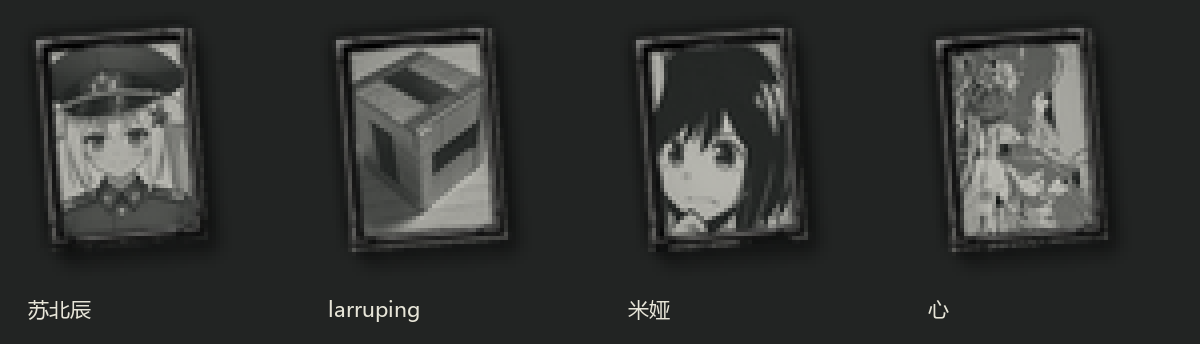
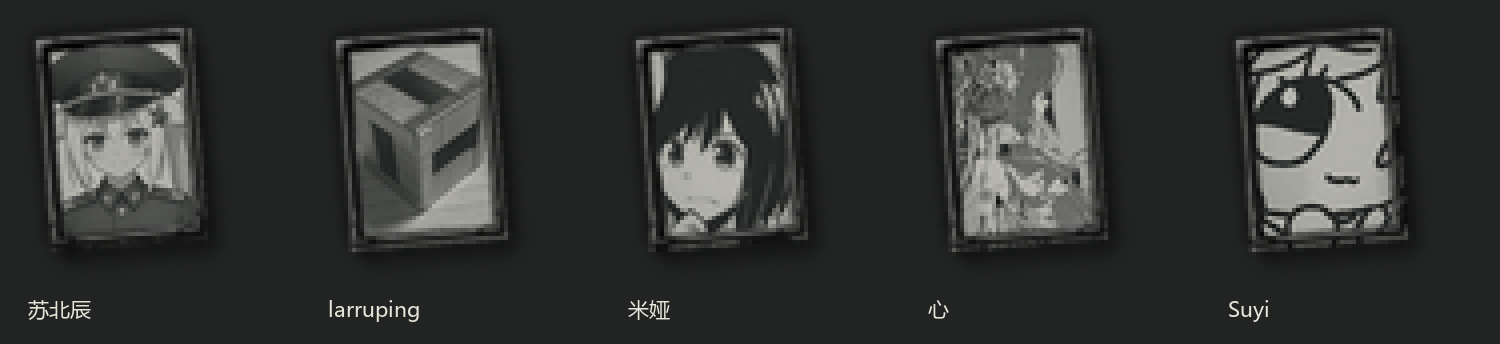
Add Suyi adviser with daily randomized political power trait

diff --git a/tools/generate_easter_egg_advisors.py b/tools/generate_easter_egg_advisors.py
@@ -9,6 +9,10 @@ from generation_io import cli
 
 ROOT=Path(__file__).resolve().parents[1]
 ADVISORS={
+ 'suyi':dict(name='Suyi',trait='概率学博士',modifiers={},desc=(
+     '背景：Suyi的mod制作历程可谓成效显著，仅用数周时间，便凭借独具风格的文案撰写和策划运营，完成了从普通群友到核心组员的跨越式转变——这一转变并非偶然，既源于其在文案撰写和策划运营方面的持续积累，也与其温和稳重的做事风格密切相关。'
+     '\n\n尽管Suyi在群内仍习惯以“季伯常”自居，但其工作热情仍感染着每一位组员。'
+     '\n\n“有理想的人，生活总是火热的。”')),
  'xin':dict(name='心',trait='自刎归天',modifiers={'org_loss_at_low_org_factor':-1},desc=(
      '背景：某种意义上来讲，牢心可能是制作组成分最复杂的人，在作为群友的早年生活中，他有时跳出来发表一些长篇大论，有时又会在长时间内陷入沉寂；不仅如此，牢心的还乐于在mod群里搬花样繁多的史，从科幻FPS对局到神笔历史小故事应有尽有，他自己美其名曰分享美食。尽管他的史经常0个人在意，但他依然乐此不疲。'
      '\n\n作为制作组新加入的成员之一，曾经的他对mod制作望而却步。直到某一天他下载了那个震撼的多么多么的多么mod——承蒙多么多么mod组的伟力，他被让KR红俄再次伟大的理想所感召，完成了从见证别人做mod到自己参与做mod的转变。为了达成这个伟大理想，无论付出何种代价都在所不惜，哪怕让群聊燃烧，让飞书陨落........')),
@@ -50,11 +54,15 @@ def render_outputs():
                 'visible = { has_country_flag = '+flag+' }',
                 'available = { hidden_trigger = { has_country_flag = '+flag+' } not_already_hired_except_as = political_advisor }',
                 'traits = { '+trait+' }','cost = 0','can_be_fired = yes','ai_will_do = { base = 0 }']).strip()]))
+        if key=='suyi':
+            characters[-1]=characters[-1].replace('cost = 0',
+                'on_add = { hidden_effect = { RUS_egg_suyi_appoint = yes } }\n\ton_remove = { hidden_effect = { clr_country_flag = RUS_egg_suyi_active remove_dynamic_modifier = { modifier = RUS_egg_suyi_daily_pp } force_update_dynamic_modifier = yes } }\n\tcost = 0')
         traits.append(block(trait,['random = no','sprite = 1',
             *[str(k)+' = '+str(v) for k,v in data['modifiers'].items()],
             *(['custom_modifier_tooltip = RUS_egg_guaranteed_minesweeper_tt'] if key=='larruping' else []),
             *(['custom_modifier_tooltip = RUS_egg_guaranteed_doudizhu_tt'] if key=='larruping' else []),
             *(['custom_modifier_tooltip = RUS_egg_mia_trait_tt'] if key=='mia' else []),
+            *(['custom_modifier_tooltip = RUS_egg_suyi_trait_tt'] if key=='suyi' else []),
             'ai_will_do = { factor = 0 }']))
         effects.append(block(ident+'_unlock',[
             'if = { limit = { original_tag = RUS is_ai = no NOT = { has_country_flag = '+flag+' } }',
@@ -87,10 +95,13 @@ def render_outputs():
       'common/scripted_effects/RUS_easter_egg_advisor_effects.txt':''.join(effects),
       'interface/RUS_easter_egg_advisors.gfx':block('spriteTypes',sprites),
       'common/dynamic_modifiers/RUS_easter_egg_modifiers.txt':
-          '# Tooltip only; actual reward is part of RUS_education_social_capacity.\n'+
-          block('RUS_edu_mia_reward_preview',['research_speed_factor = 0.05']),
+          '# Mia preview only; her actual reward is in RUS_education_social_capacity.\n# Suyi below is the live, variable-valued country modifier (no spirit icon).\n'+
+          block('RUS_edu_mia_reward_preview',['research_speed_factor = 0.05'])+
+          block('RUS_egg_suyi_daily_pp',['enable = { original_tag = RUS is_ai = no has_country_flag = RUS_egg_suyi_active }',
+              'political_power_gain = RUS_egg_suyi_pp']),
       'common/on_actions/RUS_easter_egg_on_actions.txt':block('on_actions',[
-          'on_monthly = { effect = { RUS_egg_mia_monthly = yes } }']),
+          'on_monthly = { effect = { RUS_egg_mia_monthly = yes } }',
+          'on_daily_RUS = { effect = { RUS_egg_suyi_daily = yes } }']),
     }
     outputs['common/scripted_effects/RUS_easter_egg_advisor_effects.txt']+='''
 RUS_egg_mia_education_completed = {
@@ -107,6 +118,50 @@ RUS_egg_mia_monthly = {
     }
 }
 '''
+    outputs['common/scripted_effects/RUS_easter_egg_advisor_effects.txt']+='''
+# Country-local persistent draw: appointing again on the same day reuses it.
+RUS_egg_suyi_roll = {
+    if = {
+        limit = { original_tag = RUS is_ai = no OR = { NOT = { has_country_flag = RUS_egg_suyi_rolled } check_variable = { RUS_egg_suyi_roll_day < global.num_days } } }
+        randomize_variable = { var = RUS_egg_suyi_pp distribution = uniform min = -30 max = 30 }
+        multiply_variable = { RUS_egg_suyi_pp = 100 }
+        round_variable = RUS_egg_suyi_pp
+        divide_variable = { RUS_egg_suyi_pp = 100 }
+        clamp_variable = { var = RUS_egg_suyi_pp min = -30 max = 30 }
+        set_variable = { RUS_egg_suyi_roll_day = global.num_days }
+        set_country_flag = RUS_egg_suyi_rolled
+    }
+}
+RUS_egg_suyi_appoint = {
+    if = {
+        limit = { original_tag = RUS is_ai = no has_country_flag = RUS_egg_suyi_unlocked }
+        set_country_flag = RUS_egg_suyi_active
+        RUS_egg_suyi_roll = yes
+        if = { limit = { NOT = { has_dynamic_modifier = RUS_egg_suyi_daily_pp } } add_dynamic_modifier = { modifier = RUS_egg_suyi_daily_pp } }
+        force_update_dynamic_modifier = yes
+    }
+}
+RUS_egg_suyi_daily = {
+    if = {
+        limit = { original_tag = RUS is_ai = no has_idea = RUS_egg_suyi_advisor }
+        RUS_egg_suyi_appoint = yes
+    }
+    else = {
+        clr_country_flag = RUS_egg_suyi_active
+        if = { limit = { has_dynamic_modifier = RUS_egg_suyi_daily_pp } remove_dynamic_modifier = { modifier = RUS_egg_suyi_daily_pp } force_update_dynamic_modifier = yes }
+    }
+}
+'''
+    outputs['common/scripted_localisation/RUS_easter_egg_advisors_loc.txt']=block('defined_text',[
+        'name = RUSEggSuyiCurrentPP',
+        'text = { trigger = { has_idea = RUS_egg_suyi_advisor has_country_flag = RUS_egg_suyi_rolled } localization_key = RUS_egg_suyi_pp_today }',
+        'text = { localization_key = RUS_egg_suyi_pp_range }'])
+    loc.update({
+        'RUS_egg_suyi_daily_pp':'概率学博士',
+        'RUS_egg_suyi_trait_tt':'[RUSEggSuyiCurrentPP]',
+        'RUS_egg_suyi_pp_today':'$MODIFIER_POLITICAL_POWER_GAIN$：[?RUS_egg_suyi_pp|+=2]\n每日随机刷新：§Y-30.00至+30.00§!。',
+        'RUS_egg_suyi_pp_range':'$MODIFIER_POLITICAL_POWER_GAIN$：§Y-30.00至+30.00§!（每日随机刷新）',
+    })
     for language in ('simp_chinese','english','russian'):
         outputs[f'localisation/{language}/RUS_easter_egg_advisors_l_{language}.yml']='l_'+language+':\n'+''.join(' '+k+':0 '+json.dumps(v,ensure_ascii=False)+'\n' for k,v in loc.items())
     return {rel:'\n'.join(line.rstrip() for line in text.split('\n')) for rel,text in outputs.items()}

diff --git a/tools/test_suyi_advisor.py b/tools/test_suyi_advisor.py
@@ -1,0 +1,92 @@
+"""Exercise Suyi's daily draw, hire/remove timing and country isolation."""
+import copy,subprocess,unittest
+from hoi4_politics_blocks import load,parse
+from test_easter_egg_advisors import Model,ROOT
+
+ROLE=load(ROOT/'common/characters/RUS_easter_egg_advisors.txt')[0].one('RUS_egg_suyi').one('advisor')
+
+class SuyiModel(Model):
+    def __init__(self,draws=()):
+        super().__init__();self.dynamic=set();self.draws=iter(draws);self.draw_count=0;self.tag='RUS';self.ai=False
+        self.vars['global.num_days']=100
+    def check(self,nodes):
+        if hasattr(nodes,'v'):nodes=nodes.v
+        for n in nodes:
+            if n.k=='has_dynamic_modifier':ok=n.v in self.dynamic
+            elif n.k=='original_tag':ok=n.v==self.tag
+            elif n.k=='is_ai':ok=self.ai==(n.v=='yes')
+            else:ok=super().check([n])
+            if not ok:return False
+        return True
+    def run(self,nodes):
+        pending=[]
+        for n in nodes:
+            if n.k not in ('randomize_variable','add_dynamic_modifier','remove_dynamic_modifier','force_update_dynamic_modifier'):
+                pending.append(n);continue
+            if pending:super().run(pending);pending=[]
+            if n.k=='randomize_variable':
+                self.draw_count+=1
+                self.vars[n.value('var')]=next(self.draws,self.rng.uniform(float(n.value('min')),float(n.value('max'))))
+            elif n.k=='add_dynamic_modifier':self.dynamic.add(n.value('modifier'))
+            elif n.k=='remove_dynamic_modifier':self.dynamic.discard(n.value('modifier'))
+        if pending:super().run(pending)
+    def hire(self):
+        # on_add can run before the new idea becomes observable.
+        self.run(ROLE.one('on_add').v);self.ideas.add('RUS_egg_suyi_advisor')
+    def fire(self):
+        self.ideas.discard('RUS_egg_suyi_advisor');self.run(ROLE.one('on_remove').v)
+
+class Tests(unittest.TestCase):
+    def test_unlock_does_not_draw_then_first_appointment_draws_once(self):
+        m=SuyiModel([12.348,-17.236]);m.call('RUS_egg_suyi_unlock')
+        m.call('RUS_egg_suyi_daily');self.assertEqual(m.draw_count,0)
+        m.hire();self.assertEqual(m.draw_count,1);self.assertAlmostEqual(m.vars['RUS_egg_suyi_pp'],12.35)
+        self.assertIn('RUS_egg_suyi_active',m.flags);self.assertEqual(m.dynamic,{'RUS_egg_suyi_daily_pp'})
+        for _ in range(4):m.call('RUS_egg_suyi_daily')
+        m.fire();self.assertFalse(m.dynamic);self.assertNotIn('RUS_egg_suyi_active',m.flags)
+        m.hire();self.assertEqual(m.draw_count,1);self.assertEqual(m.vars['RUS_egg_suyi_pp'],12.35)
+        m.vars['global.num_days']+=1;m.call('RUS_egg_suyi_daily')
+        self.assertEqual(m.draw_count,2);self.assertAlmostEqual(m.vars['RUS_egg_suyi_pp'],-17.24)
+        self.assertEqual(len(m.dynamic),1)
+
+    def test_range_zero_negative_positive_and_no_daily_stacking(self):
+        for value in (-30,-29.999,-.004,0,.004,29.999,30):
+            m=SuyiModel([value]);m.call('RUS_egg_suyi_unlock');m.hire()
+            self.assertGreaterEqual(m.vars['RUS_egg_suyi_pp'],-30);self.assertLessEqual(m.vars['RUS_egg_suyi_pp'],30)
+            self.assertAlmostEqual(m.vars['RUS_egg_suyi_pp'],round(value,2))
+        m=SuyiModel();m.call('RUS_egg_suyi_unlock');m.hire()
+        for day in range(101,201):
+            m.vars['global.num_days']=day;m.call('RUS_egg_suyi_daily');m.call('RUS_egg_suyi_daily')
+            self.assertTrue(-30<=m.vars['RUS_egg_suyi_pp']<=30)
+            self.assertEqual(len(m.dynamic),1)
+        self.assertEqual(m.draw_count,101)
+
+    def test_unhired_days_and_saved_draw_and_cleanup(self):
+        m=SuyiModel([5,9]);m.call('RUS_egg_suyi_unlock');m.hire();m.fire()
+        m.vars['global.num_days']=110;m.call('RUS_egg_suyi_daily');self.assertEqual(m.draw_count,1)
+        # Persisted flags/variables are sufficient to reuse a saved day's result.
+        m.hire();self.assertEqual(m.draw_count,2);self.assertEqual(m.vars['RUS_egg_suyi_pp'],9)
+        saved=SuyiModel();saved.vars=copy.deepcopy(m.vars);saved.flags=set(m.flags);saved.ideas=set(m.ideas)
+        saved.call('RUS_egg_suyi_daily');self.assertEqual(saved.draw_count,0)
+        self.assertEqual(saved.vars['RUS_egg_suyi_pp'],9)
+        saved.ideas.clear();saved.call('RUS_egg_suyi_daily');self.assertFalse(saved.dynamic)
+
+    def test_foreign_and_ai_do_not_receive_bonus(self):
+        for tag,ai in [('GER',False),('RUS',True)]:
+            m=SuyiModel();m.tag=tag;m.ai=ai;m.flags.add('RUS_egg_suyi_unlocked');m.ideas.add('RUS_egg_suyi_advisor')
+            m.call('RUS_egg_suyi_appoint');m.call('RUS_egg_suyi_daily')
+            self.assertEqual(m.draw_count,0);self.assertFalse(m.dynamic)
+
+    def test_native_effect_is_flat_pp_and_prior_advisers_unchanged(self):
+        dm=load(ROOT/'common/dynamic_modifiers/RUS_easter_egg_modifiers.txt')
+        bonus=next(n for n in dm if n.k=='RUS_egg_suyi_daily_pp')
+        self.assertEqual(bonus.value('political_power_gain'),'RUS_egg_suyi_pp')
+        self.assertIsNone(bonus.one('political_power_factor'))
+        self.assertIsNone(bonus.one('icon'))
+        for path in ('common/characters/RUS_easter_egg_advisors.txt','common/country_leader/RUS_easter_egg_advisor_traits.txt'):
+            before=parse(subprocess.check_output(['git','show','e7d2e3a:'+path]).decode('utf-8-sig'))[0]
+            after=load(ROOT/path)[0]
+            self.assertEqual([n.norm() for n in before.v],[n.norm() for n in after.v if 'suyi' not in n.k])
+        self.assertIn('RUS_egg_suyi_daily = yes',(ROOT/'common/on_actions/RUS_easter_egg_on_actions.txt').read_text())
+
+if __name__=='__main__':unittest.main(verbosity=2)

diff --git a/tools/art_sources/easter_egg_advisors_20261104/build_portraits.py b/tools/art_sources/easter_egg_advisors_20261104/build_portraits.py
@@ -9,7 +9,8 @@ FRAME=ROOT/'tools/art_templates/KR_advisor_frame_bukharin_260x268.png'
 ROWS=[('su_beichen','su_beichen_source.jpg','35,0,410,455','苏北辰'),
       ('larruping','larruping_source.png','35,20,560,580','larruping'),
       ('mia','mia_source.jpg','215,0,1040,1080','米娅'),
-      ('xin','xin_source.png','170,25,500,490','心')]
+      ('xin','xin_source.png','170,25,500,490','心'),
+      ('suyi','suyi_source.png','0,0,606,606','Suyi')]
 
 def main():
     if sys.argv[1:]!=['--write']:raise SystemExit('Explicit image rebuild requires --write')

diff --git a/tools/EASTER_EGG_ADVISORS.md b/tools/EASTER_EGG_ADVISORS.md
@@ -1,6 +1,6 @@
 # 彩蛋顾问（测试开发版，2026-11-04）
 
-玩家俄罗斯开局可在决议栏“彩蛋”分类点击“邀请苏北辰”、“邀请larruping”、“邀请米娅”和“邀请心”。解锁和政治顾问任命均为0政治点；决议只解锁、不自动任命，不替换已任命的顾问。角色未通过对应决议解锁前不显示，AI不点。
+玩家俄罗斯开局可在决议栏“彩蛋”分类点击“邀请苏北辰”、“邀请larruping”、“邀请米娅”、“邀请心”和“邀请Suyi”。解锁和政治顾问任命均为0政治点；决议只解锁、不自动任命，不替换已任命的顾问。角色未通过对应决议解锁前不显示，AI不点。
 
 列宁复活线路入口和启用简易模式也归入本分类，保留原决议ID、费用、一次性状态及效果。原分类的身份/路线限制保留在共享分类或各自决议中；不启用任何选项时不改变开局。所有入口消失后，空分类自动隐藏。列宁复活入口仍由import_lenin_revival.py生成；简易模式入口为原手写脚本，不新增效果副本。
 
@@ -9,6 +9,7 @@
 | 苏北辰 | 制作组最锋利的剑 | 陆军攻击+20%、战场宽度-20%、补给消耗-20%、陆军组织度+20% |
 | larruping | 赌徒 | 任命期间扫雷失败按成功结算；每局斗地主初始手牌保证四张2和大小王 |
 | 心 | 自刎归天 | 组织度低于25%时的组织度损失-100% |
+| Suyi | 概率学博士 | 在任期间每日政治点数获取随机-30至+30，每日刷新，两位小数 |
 | 米娅 | 最强菜花蛇 | 任命期间每月土改分数+100；任命期间每次正常完成教育改革决议，永久为教育改革精神追加科研速度+5个百分点，无额外上限 |
 
 米娅的月度奖励复用RUS_agri_credit_score，只在土改管理已启用且土改进行中或已成功时入账；土改未开启或失败不补发，完成后的超额分数按现有农业账本转为可支配收益。教育奖励接在53项活动/热情调节决议的正常完成守卫内，开工不发、取消不发、完成一次只发一次；不受教育收益倍率、原永久池科研上限或卸任影响。独立累计RUS_edu_mia_permanent_research，在教育改革本体每次刷新时加入科研速度，不另挂顾问动态精神；卸任后已获收益永久保留。完成当时须任命米娅，未任命时完成不追补。分类和分页按钮不计。完成效果以只读RUS_edu_mia_reward_preview原生预览显示+5%科研，该预览永不实际附加。
@@ -21,7 +22,7 @@
 
 ## 生成和结算
 
-- `generate_easter_egg_advisors.py`维护11份人物、特质、决议、分类、解锁效果、月度钩子、动态修正、GFX与三语本地化；默认只读，`--write`更新。图片只在`art_sources/easter_egg_advisors_20261104/build_portraits.py --write`显式重建，正常文本检查不重新绘图。
+- `generate_easter_egg_advisors.py`维护12份人物、特质、决议、分类、解锁效果、月度钩子、动态修正、GFX与三语本地化；默认只读，`--write`更新。图片只在`art_sources/easter_egg_advisors_20261104/build_portraits.py --write`显式重建，正常文本检查不重新绘图。
 - 角色为独立`RUS_egg_*` ID，只有political_advisor角色，不添加领袖/将领，不覆盖既有人物或头像。解锁效果由国家身份、AI及一次性旗标保护，recruit_character只执行一次。
 - 特质使用原生`army_attack_factor`、`combat_width_factor`、`supply_consumption_factor`、`army_org_factor`。参考KR political/theorist traits、现有RUS顾问和原生modifier文档。解锁提示沿用KR `available_political_advisor`及`show_ideas_tooltip`，不手写数值效果。
 - 独立彩蛋顾问保持用户指定数值，不由简易模式顾问扫描器再加副本；既有普通顾问的简易加成保持原样。
@@ -39,3 +40,13 @@
 “心”使用独立RUS_egg_xin政治顾问及RUS_egg_xin_trait，原生org_loss_at_low_org_factor=-1。原版英文MODIFIER_ORG_LOSS_AT_LOW_ORG_FACTOR说明为Organization loss when below 25%，简中为“组织度低于25%时的损失”；参考KR KR_high_command_traits.txt、01 Army Spirits.txt及本机modifier文档，不另写轮询单位组织度的脚本。数值和效果文字由引擎显示，沿用免费解锁后手动任命；不添加常驻精神或额外钩子，不被简易模式复制数值。
 
 用户提供的两段介绍逐字保留，沿用黄色背景标题和浅褐色正文。原PNG归档xin_source.png，裁剪170,25,500,490并复用已有KR框，运行时65×67 RGBA，四人预览1200×344。仅确定性裁剪/灰度/透视/框，不调用图生成；其余三人运行头像字节不变。斗地主名单按现有生成源追加这一解锁人物，不改发牌、牌型或奖励。
+
+## 2026-11-06 Suyi与每日随机政治点
+
+入口为彩蛋分类“邀请Suyi”（0政治点），解锁后在政治顾问栏免费任命，不自动占位。人物ID RUS_egg_suyi、顾问idea RUS_egg_suyi_advisor、特质RUS_egg_suyi_trait。用户提供三段背景原文完整保留，沿用黄色“背景：”与浅褐色正文。截图606×607按原KR模板流程裁剪0,0,606,606，输出65×67 RGBA的RUS_suyi.png；原图与SHA归档在既有素材目录，没有生成/重画人物。
+
+任命时on_add调用appoint（不依赖on_add执行时has_idea是否已可读）；设置active旗标并抽当日值，挂一个不带图标的动态修正，其political_power_gain读取RUS_egg_suyi_pp。每日on_daily_RUS只对在任的玩家RUS刷新。原生randomize_variable均匀分布-30..30，四舍五入到两位小数并限制边界；替换旧值，不累加。先记录global.num_days和rolled旗标，重复调用/同日卸任重任不重抽，存档保留已经抽出的当日数值（不承诺读取抽取日前存档后的随机结果不变）。未任命时不抽数；再次任命且日期已过才抽新值。
+
+on_remove立即清active旗标、移除该修正并强制刷新；每日入口再清理无在任顾问的残留。修正enable用active旗标避免任命回调has_idea建立时序；各入口与enable均含original_tag=RUS/is_ai=no，不影响其他国家。特质只读同一变量显示当日原生政治点标签，正负颜色及两位小数；未任命显示随机范围。后台算法、变量名及抽取步骤不写给玩家。
+
+原生参照：KR CHI characters的advisor.on_add、BAT characters的advisor.on_remove；本机effects文档randomize_variable/force_update_dynamic_modifier；当前KR原生MODIFIER_POLITICAL_POWER_GAIN本地化与本模组既有变量政治点动态修正。5项test_suyi_advisor.py覆盖首次/每日/同日防刷、上下限/正负/0/两位小数、卸任/未任命/存档变量/重任、国家AI隔离及绝对PP字段与原顾问不变；3项既有解锁、头像绑定、其他原效果回归通过。仍需新局实测政治点每日净增、任免即刻刷新和顾问悬浮。

diff --git a/维护索引.md b/维护索引.md
@@ -83,7 +83,8 @@
 | 系统 | 入口与维护源 | 主要状态与生命周期 |
 | --- | --- | --- |
 | 特斯拉与扫雷 | `RUS_tesla_*`；`generate_tesla_minesweeper.py` | 科技/国策入口与扫雷盘状态分别维护；扫雷使用决议分类窗口。larruping“赌徒”任命期间失败改成功，统一结算防重；另保证斗地主四张2和大小王，入口和维护期不改 |
-| 彩蛋栏与顾问：苏北辰/larruping/米娅/心 | `tools/generate_easter_egg_advisors.py`、`tools/EASTER_EGG_ADVISORS.md`、`tools/test_easter_egg_advisors.py` | 玩家俄罗斯的“彩蛋”分类统一放两名顾问、列宁复活入口及简易模式；后二者仍由原生成源/手写决议维护，费用/效果不改。两名独立政治顾问免费任命，数值不另受简易顾问副本放大；65×67头像复用已有KR框，原图/参数/SHA在`tools/art_sources/easter_egg_advisors_20261104` |
+| 彩蛋栏与顾问：苏北辰/larruping/米娅/心/Suyi | `tools/generate_easter_egg_advisors.py`、`tools/EASTER_EGG_ADVISORS.md`、`tools/test_easter_egg_advisors.py` | 玩家俄罗斯的“彩蛋”分类统一放五名顾问、列宁复活入口及简易模式；后二者仍由原生成源/手写决议维护，费用/效果不改。五名独立政治顾问免费任命，数值不另受简易顾问副本放大；65×67头像复用已有KR框，原图/参数/SHA在`tools/art_sources/easter_egg_advisors_20261104` |
+| Suyi每日随机政治点（20261106） | `generate_easter_egg_advisors.py`、`test_suyi_advisor.py`；说明`tools/EASTER_EGG_ADVISORS.md` | 彩蛋邀请后手动免费任命，概率学博士每日政治点获取均匀随机-30..30、两位小数，任命即时生效、同日重任不刷、卸任移除；active旗标避开on_add时序，隐藏动态修正与特质共读变量。原图按KR模板输出65×67 RGBA；仅测试开发。 |
 | 米娅累计科研与月度土改（20261105） | `generate_easter_egg_advisors.py`、`generate_education_reform.py`、`test_easter_egg_advisors.py` | 任命后每月土改+100复用农业账本，53项教育正常完成各永久为教育改革精神追加科研+5个百分点；完成时须任命、卸任后已获收益保留，无额外上限；介绍和原图归档沿用彩蛋目录 |
 | 地方工业结构（20261106） | `tools/generate_local_industrial_structure.py`、`tools/test_local_industrial_structure.py`、`tools/LOCAL_INDUSTRIAL_STRUCTURE.md` | 开局/每日缓存/控制权变更；RUS全部直接控制州，含战后占领非核心；民工速度0.4C/(C+10)-0.6M/(M+20)，军工速度-0.5M/(M+20)，仅原生州建造速度，与农村修正并存 |
 | 休息室斗地主测试 | `generate_doudizhu.py`；`doudizhu_game/rules/roster/gui.py`；维护见 `tools/DOUDIZHU.md` | 免费测试决议打开1000×680独立牌桌，54张无放回发牌、叫分、14种牌型、两位脚本牌友和结算；每局从现任领袖及已解锁文职顾问/内阁抽3名不同人物，统一顾问小头像。关闭保留、两次确认结束，座位旁显示本轮/上轮动作，三席实体出牌各自保留到本人下次出牌并按行居中，手牌约1–3秒、底牌1–1.8秒原生滑入，三席1000ms出牌滑动，双容器切换重播而不增加游戏日期计时；电脑按公开局势及累计已出牌协作，双农民跟牌拦地主、给收尾队友留接牌机会、优先使用足够安全的控制牌；不用每日钩子、不改战役数值。`validate.py --group cards`检查，默认只读，显式`--write`写出、`--write --assets`重画几何UI；本轮未更新上传目录。 |

diff --git a/MOD制作日志.md b/MOD制作日志.md
@@ -2,6 +2,14 @@
 
 最后更新：2026-11-06
 
+## 2026-11-06 — 彩蛋顾问Suyi与每日随机政治点
+
+- 按用户图文新增Suyi，特质“概率学博士”，彩蛋栏0政治点邀请后可在政治顾问栏免费任命，不自动占位。用户三段背景完整保留，使用现有黄色背景标题/浅褐色正文。截图原图606×607归档，按既有KR顾问模板裁剪、灰度、透视、透明相框输出65×67 RGBA，不重画人物，原四名头像不变。
+- 先改generate_easter_egg_advisors.py与既有头像生成源，再生人物/特质/决议/效果/动态修正/每日钩子/脚本本地化/GFX/三语。on_add立即抽取-30..30均匀随机数并保留两位小数，隐藏动态修正political_power_gain读取同一变量；on_daily_RUS在任时每日重抽，结果替换而非累计。首次任命回调不依赖has_idea建立顺序，用active旗标启用；on_remove立即移除并刷新。
+- rolled及global.num_days记录当天抽取，同日重复调用/卸任重任不刷，已保存当日变量可复用；未任命期间不抽，跨天重任再抽。不声称读取抽取日前存档能防止改变随机结果。玩家RUS隔离，不改其他国家、AI及原顾问效果。特质用原生MODIFIER_POLITICAL_POWER_GAIN和KR已用的|+=2格式显示当日正负数；候选状态只显示范围，不显示计算算法。
+- 原生参考：KR CHI advisor.on_add/BAT advisor.on_remove、本机randomize_variable及force_update_dynamic_modifier文档、KR 00 Political党派联合政治点显示、既有变量政治点动态修正。5项实际脚本模型及3项既有解锁/头像/效果保护通过，12生成输出一致，503脚本/331本地化结构0错误，空白检查通过；新修正/特质/钩子/显示/GFX/本地化RHoi绿色，新增helper未索引CW263通过只读展开实际定义后字符/决议/效果校验绿色；repair dry_run无红项，未应用修复。
+- 仅测试开发目录，更新维护说明和索引，本地Git提交，不构建上传、不推送。未启动游戏；需完全重启新局实测任命当日/每日政治点净增、正负显示、卸任即刻撤销与同日重任。
+
 ## 2026-11-06 — 六档新图标及经济项目等近期修改同步测试上传目录
 
 - 用户明确要求“上述修改同步到测试版上传目录”，并补充包括经济项目。先核对差异：9个新增、32个变化的可发布文件，无上传独有文件；原进程hoi4仍运行，依AGENTS与已审计脚本约束询问退出，用户回复已退出后再次确认进程不存在。
